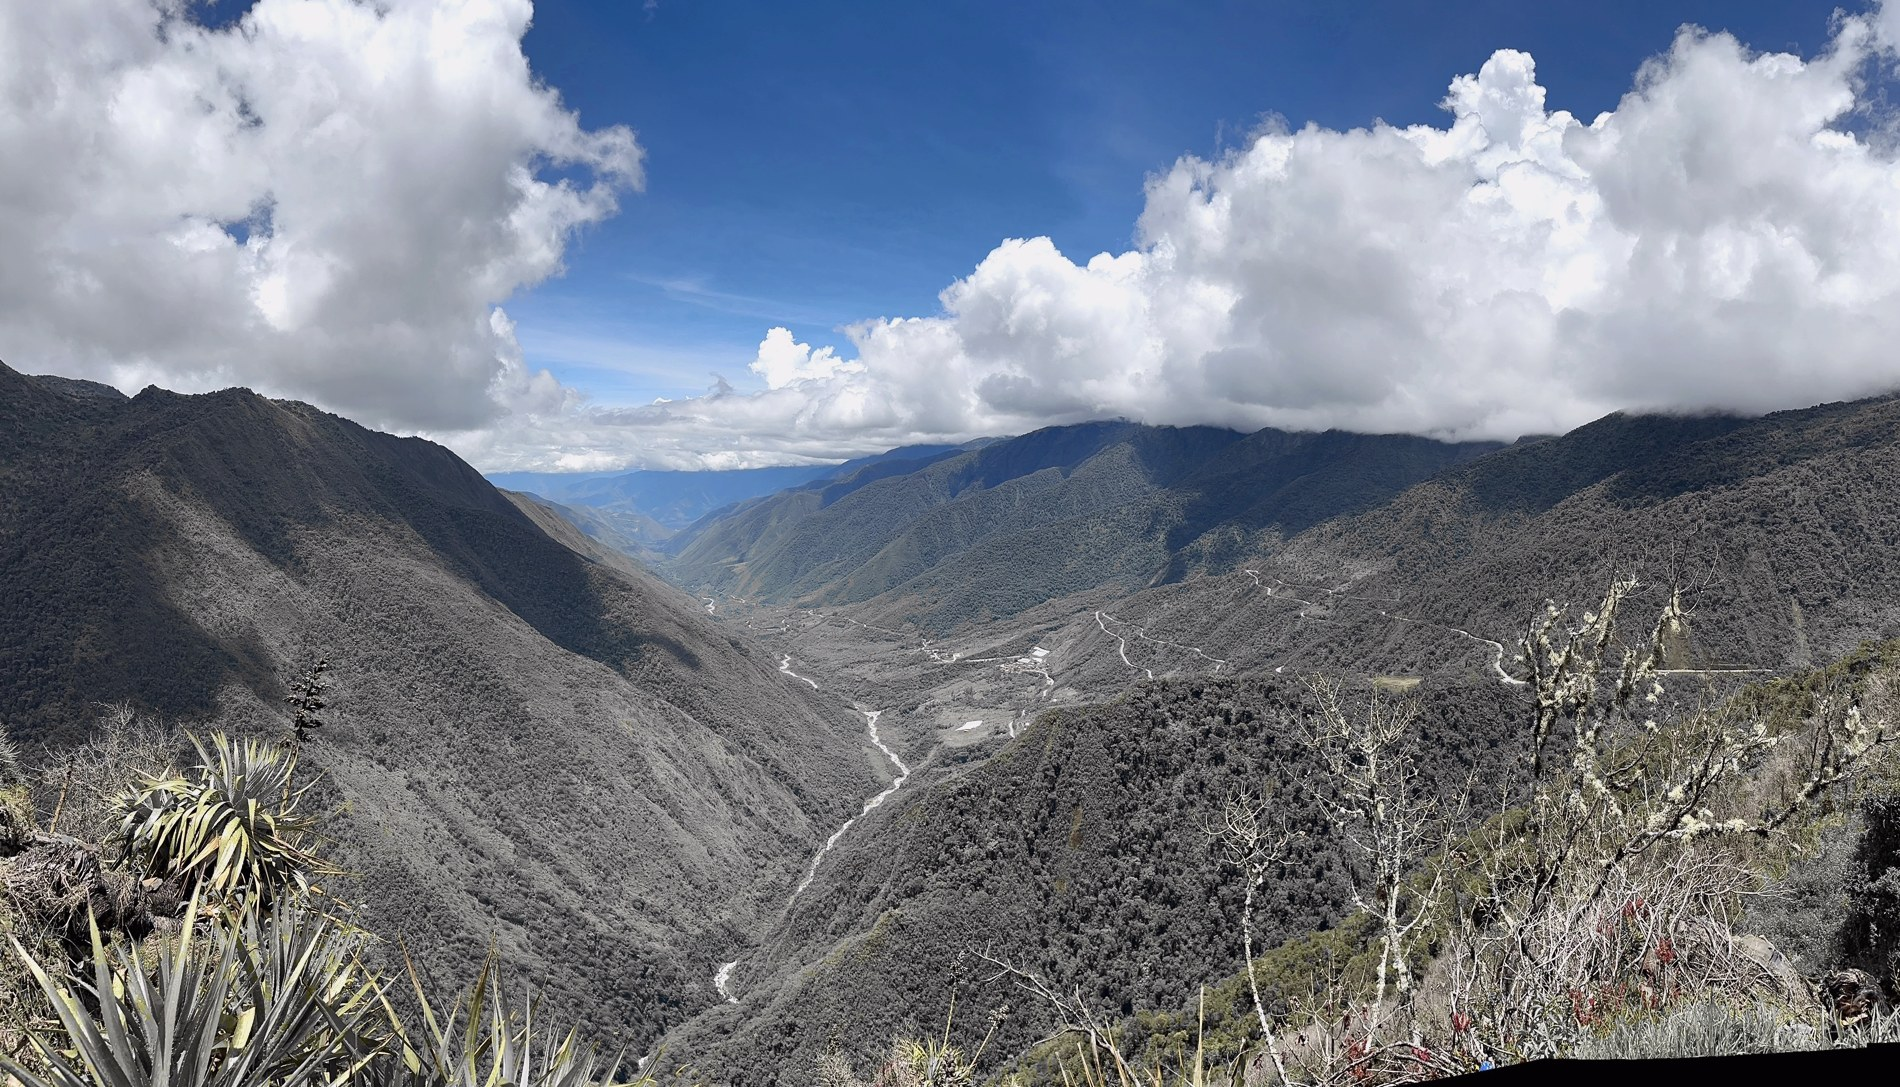
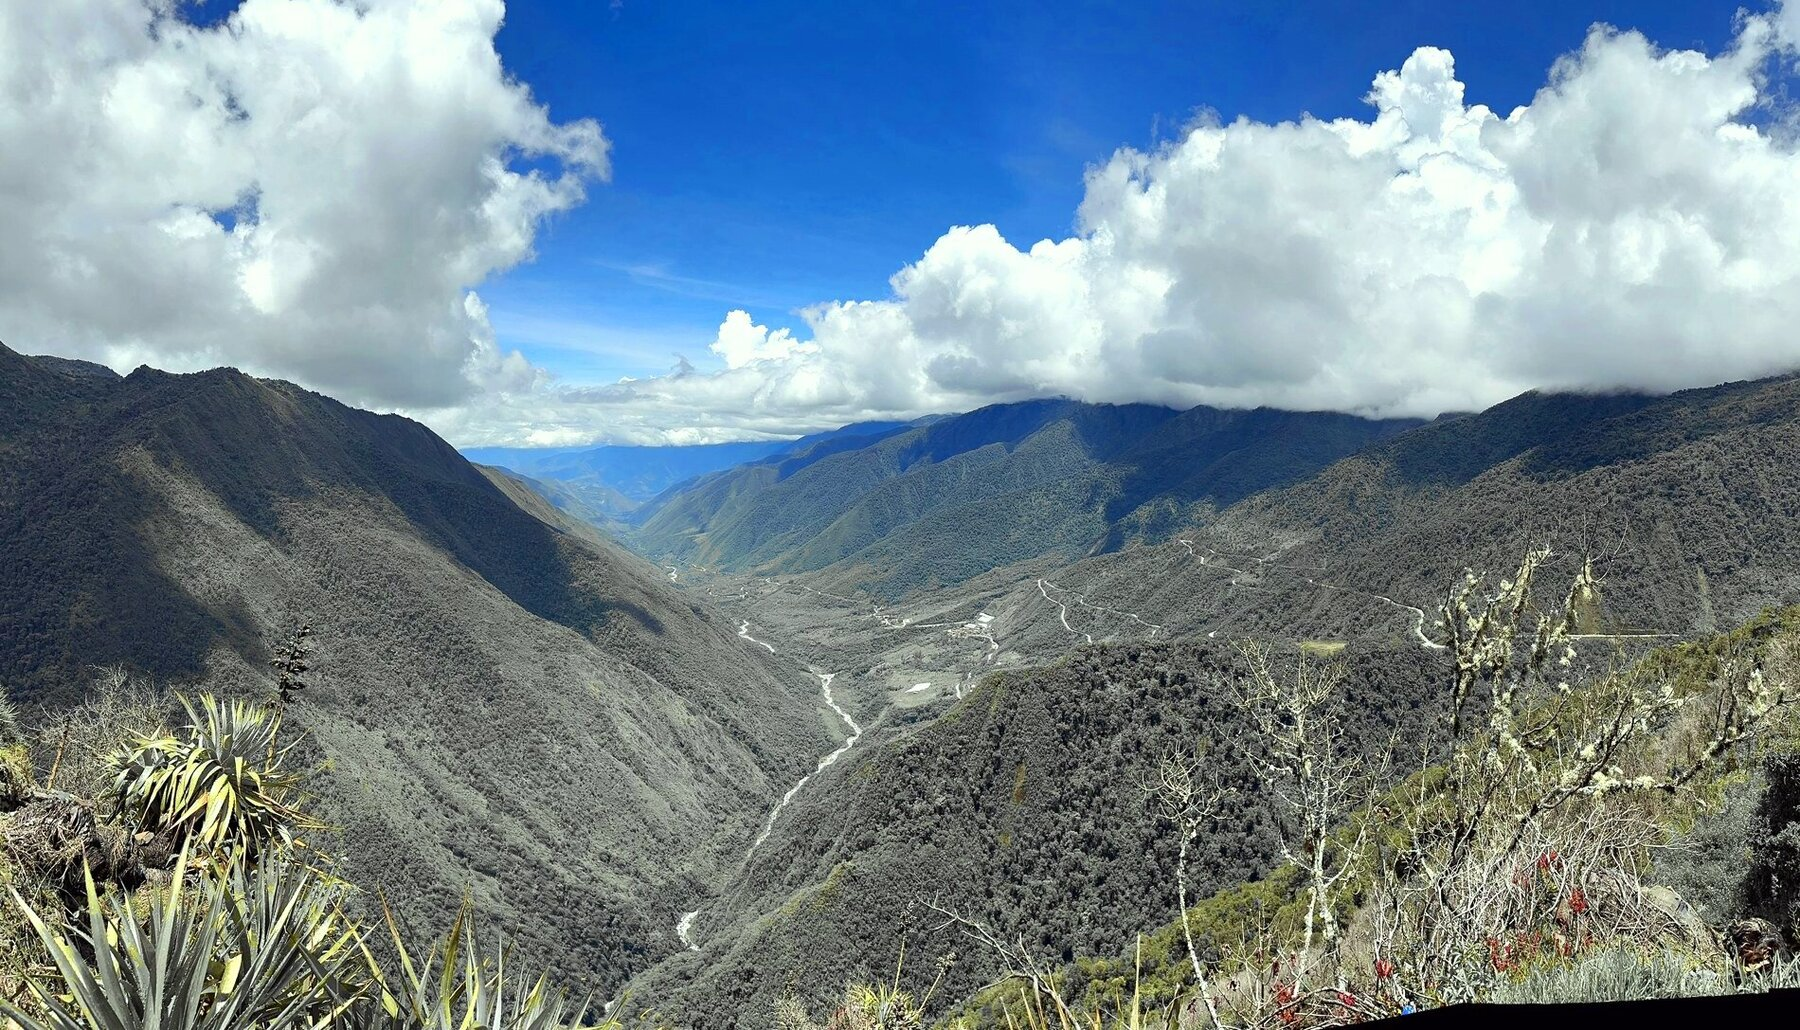
Enhance the vibrancy and green tones of the "Coming Back to the Earth" card image
Update the "Coming Back to the Earth" card image and adjust its styling in resources.html, increasing saturation and brightness while lightening the overlay to make the natural scenery appear more vibrant and less muted.

Replit-Commit-Author: Agent
Replit-Commit-Session-Id: 1b958849-79a5-4566-be53-e68529931cd0
Replit-Commit-Checkpoint-Type: full_checkpoint
Replit-Commit-Event-Id: 024d89cd-0771-41f5-9d8d-40a1a969e05f
Replit-Commit-Screenshot-Url: https://storage.googleapis.com/screenshot-production-us-central1/e1b2f643-7869-4565-af0e-10c34575ee8d/1b958849-79a5-4566-be53-e68529931cd0/nCE8mLK
Replit-Helium-Checkpoint-Created: true

diff --git a/website/elh-preview/resources.html b/website/elh-preview/resources.html
@@ -299,7 +299,7 @@ p,li,blockquote{text-wrap:pretty}
       <h2>The threads we return to</h2>
       <p>Care reaches past the clinical, to the body and the spirit, to the natural world that steadies us and the people who hold us up.</p></div>
     <div class="tgrid"><a class="tc" href="resources/comfort-therapies.html"><div class="tc-img" style="background-image:url(/assets/img/comfort-therapies.jpg)"></div><div class="tc-body"><div class="tc-tag">Integrative Comfort</div><h3 class="tc-title">The Therapies That Bring Comfort</h3><p class="tc-ex">Music, massage, reiki, aromatherapy and more, woven into care to ease the body and<br>quiet the mind.</p><span class="rc-go">Read &#8594;</span></div></a>
-<a class="tc" href="resources/back-to-the-earth.html"><div class="tc-img" style="background-image:url(/assets/img/back-to-the-earth-hero.jpg);background-color:rgba(22,58,16,0.32);background-blend-mode:soft-light;filter:saturate(1.15) brightness(1.02) contrast(1.03)"></div><div class="tc-body"><div class="tc-tag">The Earth</div><h3 class="tc-title">Coming Back to the Earth</h3><p class="tc-ex">The steadying pull of nature, the garden and the natural world and the calm it brings in tender days.</p><span class="rc-go">Read &#8594;</span></div></a>
+<a class="tc" href="resources/back-to-the-earth.html"><div class="tc-img" style="background-image:url(/assets/img/back-to-the-earth-hero.jpg);background-color:rgba(96,150,70,0.16);background-blend-mode:soft-light;filter:saturate(1.32) brightness(1.06) contrast(1.03)"></div><div class="tc-body"><div class="tc-tag">The Earth</div><h3 class="tc-title">Coming Back to the Earth</h3><p class="tc-ex">The steadying pull of nature, the garden and the natural world and the calm it brings in tender days.</p><span class="rc-go">Read &#8594;</span></div></a>
 <a class="tc" href="resources/the-circle-around-you.html"><div class="tc-img" style="background-image:url(/assets/img/the-circle-around-you.jpg)"></div><div class="tc-body"><div class="tc-tag">Community</div><h3 class="tc-title">The Circle Around You</h3><p class="tc-ex">Leaning on the people who hold a family up and how to build that circle when you need it most.</p><span class="rc-go">Read &#8594;</span></div></a>
 <a class="tc" href="resources/volunteer.html"><div class="tc-img" style="background-image:url(/assets/img/volunteer.jpg)"></div><div class="tc-body"><div class="tc-tag">Volunteering</div><h3 class="tc-title">Giving Time, Giving Presence</h3><p class="tc-ex">How hospice volunteers bring companionship and a steady hand and how you can join them.</p><span class="rc-go">Read &#8594;</span></div></a></div>
   </div>
